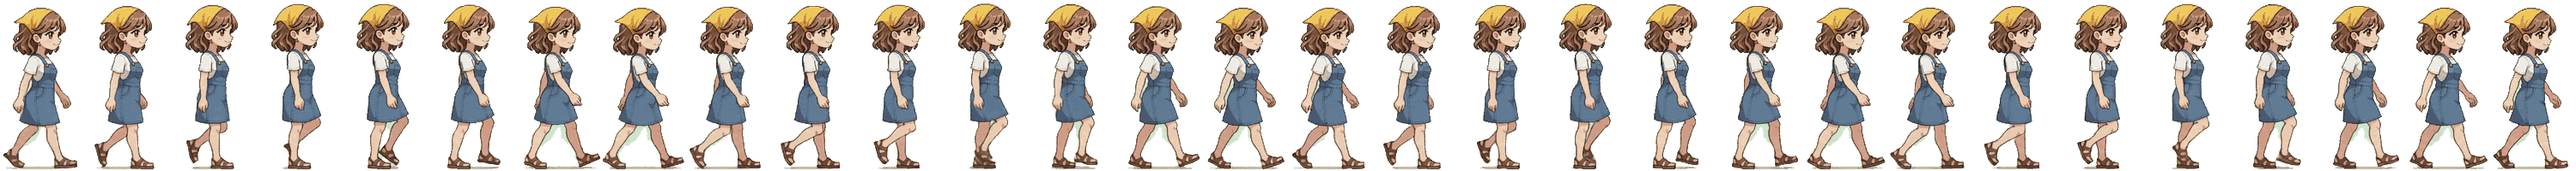
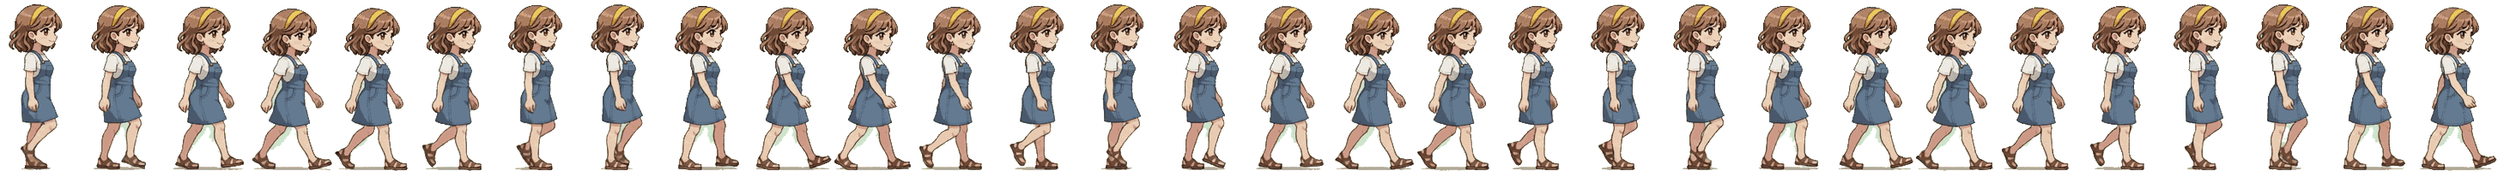
ミオの ジャンパースカートの 歩きを 作りなおし版に（バンダナが 立ちと 同じ カチューシャ風）
Claude-Session: https://claude.ai/code/session_01PV2MDoW8eYpCQDB9M9yore

diff --git a/sw.js b/sw.js
@@ -2,7 +2,7 @@
 // 更新が届かない端末が出ないように：
 //  - インストール時は画面の部品だけを保存する（音声40MBを一度に取りにいくと、1つ失敗しただけで更新が止まるため）。音声は聞いたときに保存
 //  - いつもネットの最新版を先に取りにいき（変わっていなければ304で軽い）、つながらない・遅いときだけ保存した物を使う
-const CACHE='hoshienglish-v358',AUD='hoshienglish-audio',MIOC='hoshienglish-mio';
+const CACHE='hoshienglish-v359',AUD='hoshienglish-audio',MIOC='hoshienglish-mio';
 const CORE=['./','index.html','manifest.webmanifest','icon-192.png','icon-512.png','apple-touch-icon.png','beach/scene.js','beach/scene.css','beach/host.js','beach/host-after.js','game/se.js','game/levels/index.js','game/levels/es.js','game/levels/jh.js','game/levels/jh-more.js','game/levels/hs.js','game/levels/hs-more.js','game/levels/adv.js','game/levels/adv-more.js','game/levels/basic-add.js','game/extras/pop.js','game/extras/season.js','game/extras/folk.js','game/extras/cheer.js','game/extras/talk.js','game/grammar/es.js','game/grammar/jh.js','game/grammar/hs.js','game/catalog.js','game/music-lofi.js','game/game.js','game/recent.js','game/adventure.js','game/cards-data.js','game/cards.js','game/cards.css','game/mina-lines.js','game/mina-talk.js','game/mina-sense.js','game/mina.js','game/mina.css','game/lessons/index.js','game/lessons/es.js','game/lessons/jh.js','game/lessons/hs.js','game/lessons/manabi.js','game/lessons/icons.js','game/lesson.js','game/gram-link.js','game/gram-see.js','game/bonus.css','game/motivate.js','game/motivate.css','game/review.js','game/review.css','game/kaiwa-data.js','game/kaiwa-story.js','game/kaiwa.js','game/kaiwa.css','game/sensei-data.js','game/sensei-drill-more.js','game/sensei-scenes.js','game/sensei.js','game/deep-data.js','game/deep-more.js','game/deep.js','game/sensei.css','game/adventure.css','game/game.css','game/bottle.js','game/bottle.css','game/zakka-data.js','game/zakka-more.js','game/zakka-talk.js','game/zakka-goods.js','game/zakka-goods-talk.js','game/zakka-now.js','game/zakka.js','game/zakka.css','game/tutor-data.js','game/tutor-more.js','game/tutor-teach.js','game/tutor-talk.js','game/tutor.js','game/tutor.css','game/gift-data.js','game/gift-vary.js','game/gift-quick.js','game/gift.js','game/gift.css','game/love-data.js','game/love-more.js','game/love-extra.js','game/love-final.js','game/love.js','game/love.css','game/cg-data.js','game/cg.js','game/shop-data.js','game/shop-mutter.js','game/mio.js','game/mio-pix.js','game/look-mix.js','game/mio-doki.js','game/mio-gif.js','game/shop-serve-data.js','game/shop-buyin-data.js','game/shop-serve.js','game/shop-deco.js','game/shop.js','game/cbook.js','game/mine-items.js','game/mine.js','game/mine-story.js','game/mine-rest.js','game/mine-walkie.js','game/ore.js','game/hours.js','game/mio-room.js','game/mio-home.js','game/dungeon-art.js','game/dungeon.js','game/mio-talk.js','game/mio-chat.js','game/mio-love-data.js','game/mio-love.js','game/date-data.js','game/date.js','game/house-data.js','game/house.js','game/fest-data.js','game/fest.js','game/mio-spice.js','game/doki.js','game/mio-memo.js','game/mio-study-data.js','game/mio-study.js','game/mio-ctr-data.js','game/mio-ctr-long.js','game/kaiwa-moved.js','game/mio-ctr.js','game/cg-more.js','game/cg.css','game/shop.css','game/date.css','game/house.css','game/fest.css','game/cbook.css','game/ore.css','game/food-data.js','game/food.js','game/food.css','game/tango-talk.css','game/unchiku-data.js','game/unchiku.js','game/winfo.js','game/winfo-ex.js','game/winfo-data.js','game/winfo-data-tr.js','game/winfo-data-jh.js','game/winfo-data-jh2.js','game/winfo-data-fill.js','game/winfo-data-add.js','game/winfo-roots.js','game/winfo-roots-hs.js','game/winfo-roots-adv.js','game/winfo-roots2.js','game/winfo-roots-hs2.js','game/winfo-roots-adv2.js','game/winfo-roots-adv3.js','game/winfo-roots-adv4.js','game/winfo-roots-tr.js','game/winfo-memo.js','game/winfo-memo-jh.js','game/winfo-memo-jh2.js','game/winfo-memo-hs.js','game/winfo-memo-hs2.js','game/winfo-memo-adv.js','game/winfo-memo-adv2.js','game/winfo-memo-adv3.js','game/winfo-memo-adv4.js','game/winfo-memo-adv5.js','game/abbr.js','game/mina-react-data.js','game/mina-react.js','game/mina-chat-data.js','game/mina-chat.js','game/tango-talk.js','game/horror-data.js','game/horror.js','game/search.js','game/wordtap.js','game/horror.css','game/study-data.js','game/study.js','game/study.css','game/unit.js','game/unit-lines.js','game/modal-data.js','game/modal.js','game/unit-perfect.js','game/unit-comp.js','game/unit-shikumi.js','game/verb-check.js','game/drill-jp.js','game/shikumi-drill.js','game/teach-why.js','game/teach-why2.js','game/unit-auto.js','game/unit-jp.js','game/mina-qa.js','game/mame.js','game/mini-place.js','game/mame.css','game/practice.js','game/kata.js','game/kata.css','game/mina-kotsu.js','game/mina-plan.js','game/gram-go.js','game/modal.css','game/plan.css'];
 self.addEventListener('install',e=>{e.waitUntil(caches.open(CACHE).then(c=>Promise.all(CORE.map(u=>fetch(u,{cache:'reload'}).then(r=>{if(r.ok)return c.put(u,r)}).catch(()=>{})))).then(()=>self.skipWaiting()))});
 self.addEventListener('activate',e=>{e.waitUntil(caches.keys().then(ks=>Promise.all(ks.filter(k=>k!==CACHE&&k!==AUD&&k!==MIOC).map(k=>caches.delete(k)))).then(()=>self.clients.claim()))});
